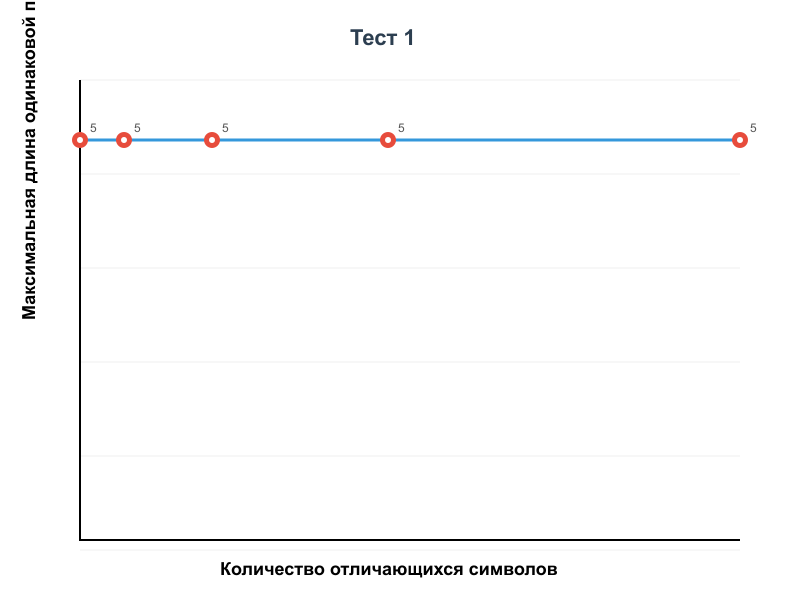
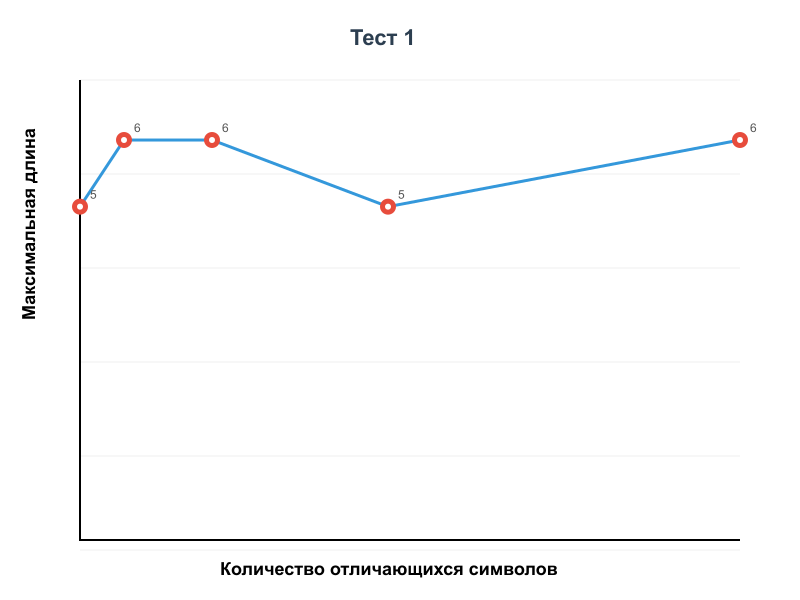
add 9

diff --git a/lab/lab_10/index.js b/lab/lab_10/index.js
@@ -1,0 +1,97 @@
+const readline = require('readline');
+/**
+ * Интерфейс для чтения входных данных из стандартного потока
+ * @constant
+ * @type {readline.Interface}
+ */
+const rl = readline.createInterface({
+    input: process.stdin,
+    output: process.stdout
+});
+/**
+ * Хранилище строк входных данных
+ * @type {string[]}
+ */
+let lines = [];
+/**
+ * Обработчик строк входных данных
+ * @event line
+ * @param {string} line - Строка из входного потока
+ * @returns {void}
+ */
+rl.on('line', (line) => {
+    if (line.trim() === '') return;
+    lines.push(line.trim());
+});
+/**
+ * Основная функция решения задачи
+ * @event close
+ * @returns {void}
+ */
+rl.on('close', () => {
+    // Парсинг входных данных
+    const input = lines.join(' ').split(/\s+/);
+
+    /**
+     * Количество камней
+     * @type {number}
+     */
+    const n = parseInt(input[0]);
+
+    /**
+     * Массив весов камней
+     * @type {number[]}
+     */
+    const weights = input.slice(1, 1 + n).map(Number);
+
+    /*** Общая сумма весов всех камней*/
+    const totalSum = weights.reduce((sum, w) => sum + w, 0);
+    /**
+     * Вместимость рюкзака (половина от общей суммы)
+     * Алгоритм ищет максимальный вес, не превышающий эту величину
+     * @type {number}
+     */
+    const capacity = Math.floor(totalSum / 2);
+
+    /**
+     * Массив динамического программирования
+     * dp[w] = true, если можно набрать вес w из доступных камней
+     * @type {boolean[]}
+     */
+    const dp = new Array(capacity + 1).fill(false);
+    dp[0] = true;  // Вес 0 всегда можно набрать
+
+    /**
+     * Основной цикл динамического программирования (восходящий метод)
+     * @param {number} i - Индекс текущего камня
+     * @param {number} weight - Вес текущего камня
+     */
+    for (let i = 0; i < n; i++) {
+        const weight = weights[i];
+        // Идём от больших весов к меньшим, чтобы избежать повторного использования камня
+        for (let w = capacity; w >= weight; w--) {
+            if (dp[w - weight]) {
+                dp[w] = true;
+            }
+        }
+    }
+
+    /**
+     * Поиск максимального достижимого веса
+     * Начинаем с capacity и идём вниз до первого true
+     * @type {number}
+     */
+    let maxWeight = 0;
+    for (let w = capacity; w >= 0; w--) {
+        if (dp[w]) {
+            maxWeight = w;
+            break;
+        }
+    }
+    /**
+     * Результат — минимальная разность между двумя кучами
+     * @type {number}
+     */
+    const result = totalSum - 2 * maxWeight;
+    console.log(result);
+});

diff --git a/lab/lab_9/index.js b/lab/lab_9/index.js
@@ -2,13 +2,8 @@ const crypto = require('crypto');
 const fs = require('fs');
 const { createCanvas } = require('canvas');
 
-// ======================== SHA-256 ========================
-
 /**
  * Вычисление хеша SHA-256 для входных данных
- * Реализует алгоритм SHA-2 с выходом 256 бит (64 hex-символа)
- * Обладает свойствами: детерминированность, лавинный эффект, криптостойкость
- * Сложность: O(n) где n - длина входных данных
  * @param {string} data - Входные данные произвольной длины
  * @returns {string} Хеш в виде hex-строки (64 символа)
  */
@@ -16,12 +11,8 @@ function sha256(data) {
     return crypto.createHash('sha256').update(data, 'utf8').digest('hex');
 }
 
-// ======================== ВСПОМОГАТЕЛЬНЫЕ ФУНКЦИИ ========================
-
 /**
  * Генерация случайной строки заданной длины
- * Используется для создания тестовых данных
- * Сложность: O(n)
  * @param {number} length - Длина генерируемой строки
  * @returns {string} Случайная строка из латинских букв и цифр
  */
@@ -143,7 +134,7 @@ function plotTest1Graph(data, filename) {
     ctx.save();
     ctx.translate(35, height / 2);
     ctx.rotate(-Math.PI / 2);
-    ctx.fillText('Максимальная длина одинаковой последовательности', -20, 0);
+    ctx.fillText('Максимальная длина ', -20, 0);
     ctx.restore();
 
     ctx.font = 'bold 22px Arial';
